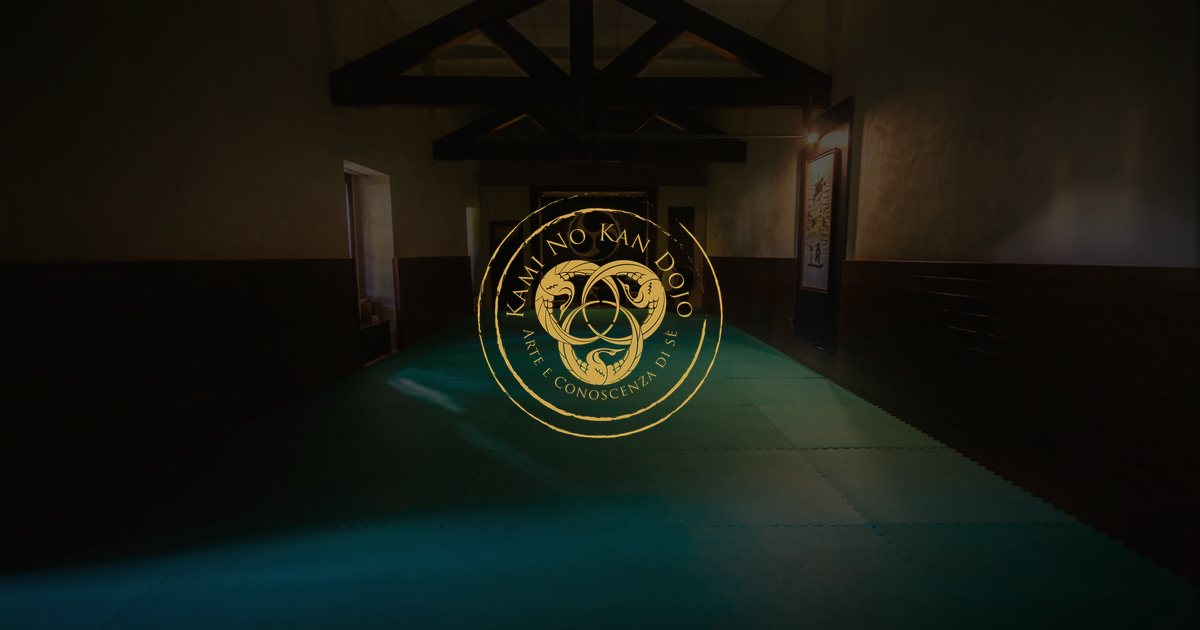
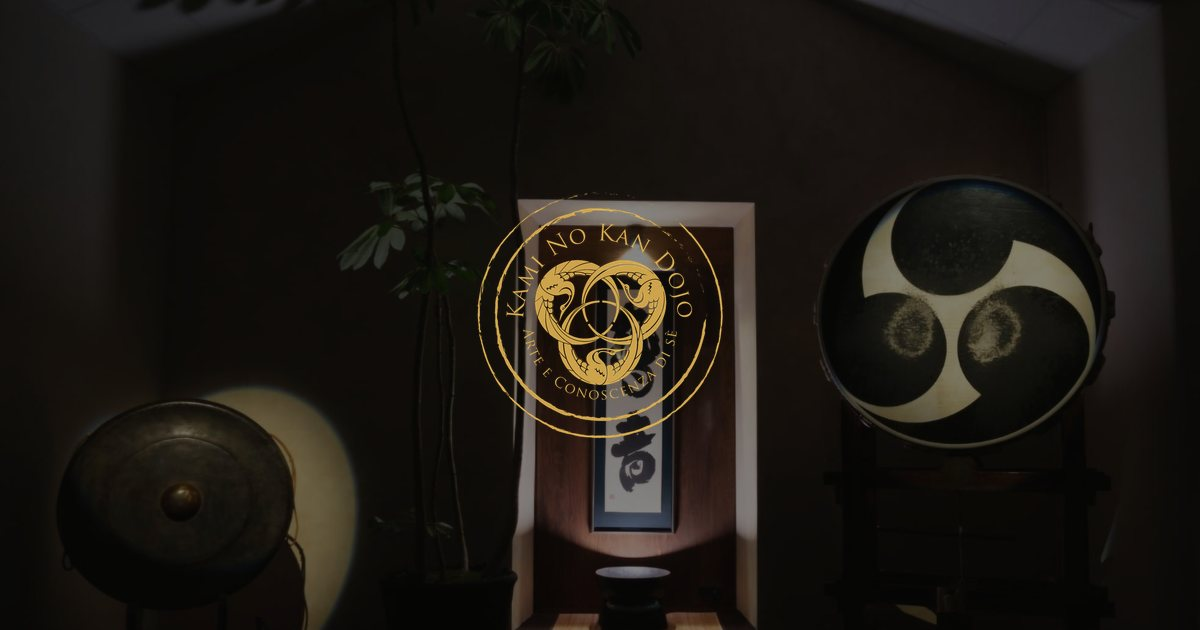
Nuove foto del Dojo ristrutturato e di SHINKA
Il portale della Home, la pagina Il Dojo, Taiko, Eventi e Contatti usano
le foto del dojo dopo la ristrutturazione e dell'evento del ventennale.
La galleria ha un nuovo filtro "Il Dojo". Rimosse le foto del vecchio dojo.

diff --git a/galleria.html b/galleria.html
@@ -73,14 +73,39 @@
       <div class="wrap">
         <div class="filters" role="group" aria-label="Filtra le foto per categoria">
           <button type="button" class="chip is-on" aria-pressed="true" data-filter="all">Tutte</button>
+          <button type="button" class="chip" aria-pressed="false" data-filter="d">Il Dojo</button>
           <button type="button" class="chip" aria-pressed="false" data-filter="a">Allenamenti</button>
           <button type="button" class="chip" aria-pressed="false" data-filter="s">Seminari</button>
           <button type="button" class="chip" aria-pressed="false" data-filter="e">Eventi</button>
         </div>
         <div class="masonry mt a">
+          <button type="button" class="shot" data-cat="d" aria-label="Ingrandisci la foto: Il grande tamburo e la calligrafia"><img src="assets/img/dojo-kamiza-sera.webp" alt="Il grande tamburo e la calligrafia" width="1964" height="1308" loading="lazy" decoding="async"><span>Il grande tamburo e la calligrafia</span></button>
+          <button type="button" class="shot" data-cat="e" aria-label="Ingrandisci la foto: SHINKA, dicembre 2025"><img src="assets/img/shinka-palco.webp" alt="SHINKA, dicembre 2025" width="2000" height="1233" loading="lazy" decoding="async"><span>SHINKA, dicembre 2025</span></button>
+          <button type="button" class="shot" data-cat="d" aria-label="Ingrandisci la foto: La soglia della sala"><img src="assets/img/dojo-soglia.webp" alt="La soglia della sala" width="1080" height="1822" loading="lazy" decoding="async"><span>La soglia della sala</span></button>
+          <button type="button" class="shot" data-cat="d" aria-label="Ingrandisci la foto: Il giardino di bambù"><img src="assets/img/giardino-bambu.webp" alt="Il giardino di bambù" width="1080" height="1511" loading="lazy" decoding="async"><span>Il giardino di bambù</span></button>
+          <button type="button" class="shot" data-cat="e" aria-label="Ingrandisci la foto: SHINKA, dicembre 2025"><img src="assets/img/shinka-samurai.webp" alt="SHINKA, dicembre 2025" width="1080" height="1679" loading="lazy" decoding="async"><span>SHINKA, dicembre 2025</span></button>
+          <button type="button" class="shot" data-cat="d" aria-label="Ingrandisci la foto: La sala di pratica, di sera"><img src="assets/img/dojo-sala-sera.webp" alt="La sala di pratica, di sera" width="1800" height="1682" loading="lazy" decoding="async"><span>La sala di pratica, di sera</span></button>
+          <button type="button" class="shot" data-cat="d" aria-label="Ingrandisci la foto: Bonsai e calligrafia"><img src="assets/img/dojo-bonsai.webp" alt="Bonsai e calligrafia" width="1080" height="1637" loading="lazy" decoding="async"><span>Bonsai e calligrafia</span></button>
+          <button type="button" class="shot" data-cat="e" aria-label="Ingrandisci la foto: SHINKA, dicembre 2025"><img src="assets/img/shinka-rosso.webp" alt="SHINKA, dicembre 2025" width="2000" height="1251" loading="lazy" decoding="async"><span>SHINKA, dicembre 2025</span></button>
+          <button type="button" class="shot" data-cat="d" aria-label="Ingrandisci la foto: Il giardino di pietra"><img src="assets/img/giardino-zen.webp" alt="Il giardino di pietra" width="1408" height="2000" loading="lazy" decoding="async"><span>Il giardino di pietra</span></button>
+          <button type="button" class="shot" data-cat="d" aria-label="Ingrandisci la foto: La sala di pratica"><img src="assets/img/dojo-sala.webp" alt="La sala di pratica" width="2000" height="1350" loading="lazy" decoding="async"><span>La sala di pratica</span></button>
+          <button type="button" class="shot" data-cat="d" aria-label="Ingrandisci la foto: L'ingresso"><img src="assets/img/dojo-ingresso.webp" alt="L'ingresso" width="2000" height="1289" loading="lazy" decoding="async"><span>L'ingresso</span></button>
+          <button type="button" class="shot" data-cat="e" aria-label="Ingrandisci la foto: SHINKA, dicembre 2025"><img src="assets/img/shinka-platea.webp" alt="SHINKA, dicembre 2025" width="2000" height="1064" loading="lazy" decoding="async"><span>SHINKA, dicembre 2025</span></button>
+          <button type="button" class="shot" data-cat="d" aria-label="Ingrandisci la foto: Il grande tamburo"><img src="assets/img/taiko-tomoe-nuovo.webp" alt="Il grande tamburo" width="2000" height="1331" loading="lazy" decoding="async"><span>Il grande tamburo</span></button>
+          <button type="button" class="shot" data-cat="d" aria-label="Ingrandisci la foto: La lanterna di pietra"><img src="assets/img/giardino-lanterna.webp" alt="La lanterna di pietra" width="1126" height="2000" loading="lazy" decoding="async"><span>La lanterna di pietra</span></button>
+          <button type="button" class="shot" data-cat="d" aria-label="Ingrandisci la foto: La scala in legno"><img src="assets/img/dojo-scala.webp" alt="La scala in legno" width="2000" height="1433" loading="lazy" decoding="async"><span>La scala in legno</span></button>
+          <button type="button" class="shot" data-cat="d" aria-label="Ingrandisci la foto: Il gong"><img src="assets/img/dojo-gong.webp" alt="Il gong" width="1080" height="1241" loading="lazy" decoding="async"><span>Il gong</span></button>
+          <button type="button" class="shot" data-cat="d" aria-label="Ingrandisci la foto: Il sentiero d'ingresso"><img src="assets/img/giardino-ingresso.webp" alt="Il sentiero d'ingresso" width="946" height="1156" loading="lazy" decoding="async"><span>Il sentiero d'ingresso</span></button>
+          <button type="button" class="shot" data-cat="d" aria-label="Ingrandisci la foto: La sala vista dal tatami"><img src="assets/img/dojo-sala-2.webp" alt="La sala vista dal tatami" width="1705" height="2000" loading="lazy" decoding="async"><span>La sala vista dal tatami</span></button>
+          <button type="button" class="shot" data-cat="d" aria-label="Ingrandisci la foto: Bonsai e grande tamburo"><img src="assets/img/dojo-bonsai-taiko.webp" alt="Bonsai e grande tamburo" width="1125" height="2000" loading="lazy" decoding="async"><span>Bonsai e grande tamburo</span></button>
+          <button type="button" class="shot" data-cat="d" aria-label="Ingrandisci la foto: Lanterna accesa"><img src="assets/img/giardino-lanterna-2.webp" alt="Lanterna accesa" width="1126" height="2000" loading="lazy" decoding="async"><span>Lanterna accesa</span></button>
+          <button type="button" class="shot" data-cat="d" aria-label="Ingrandisci la foto: Calligrafia"><img src="assets/img/dojo-targa.webp" alt="Calligrafia" width="1080" height="902" loading="lazy" decoding="async"><span>Calligrafia</span></button>
+          <button type="button" class="shot" data-cat="d" aria-label="Ingrandisci la foto: La sala vista di lato"><img src="assets/img/dojo-sala-3.webp" alt="La sala vista di lato" width="1876" height="2000" loading="lazy" decoding="async"><span>La sala vista di lato</span></button>
+          <button type="button" class="shot" data-cat="d" aria-label="Ingrandisci la foto: Il giardino di notte"><img src="assets/img/giardino-sentiero.webp" alt="Il giardino di notte" width="2000" height="1350" loading="lazy" decoding="async"><span>Il giardino di notte</span></button>
+          <button type="button" class="shot" data-cat="d" aria-label="Ingrandisci la foto: Gong, calligrafia e grande tamburo"><img src="assets/img/dojo-kamiza.webp" alt="Gong, calligrafia e grande tamburo" width="2000" height="1314" loading="lazy" decoding="async"><span>Gong, calligrafia e grande tamburo</span></button>
+          <button type="button" class="shot" data-cat="d" aria-label="Ingrandisci la foto: Il tamburo nella sala"><img src="assets/img/dojo-taiko-angolo.webp" alt="Il tamburo nella sala" width="1125" height="2000" loading="lazy" decoding="async"><span>Il tamburo nella sala</span></button>
           <button type="button" class="shot" data-cat="e" aria-label="Ingrandisci la foto: Matsuri"><img src="assets/img/matsuri-kimono.webp" alt="Matsuri" width="1600" height="1066" loading="lazy" decoding="async"><span>Matsuri</span></button>
           <button type="button" class="shot" data-cat="a" aria-label="Ingrandisci la foto: Kata al Matsuri"><img src="assets/img/karate-kata.webp" alt="Kata al Matsuri" width="1800" height="1200" loading="lazy" decoding="async"><span>Kata al Matsuri</span></button>
-          <button type="button" class="shot" data-cat="e" aria-label="Ingrandisci la foto: Odaiko"><img src="assets/img/odaiko.webp" alt="Odaiko" width="1345" height="1700" loading="lazy" decoding="async"><span>Odaiko</span></button>
           <button type="button" class="shot" data-cat="s" aria-label="Ingrandisci la foto: Viaggio di formazione"><img src="assets/img/seminari-1.webp" alt="Viaggio di formazione" width="1600" height="1200" loading="lazy" decoding="async"><span>Viaggio di formazione</span></button>
           <button type="button" class="shot" data-cat="a" aria-label="Ingrandisci la foto: Kata sulla spiaggia al tramonto"><img src="assets/img/kanku-dai.webp" alt="Kata sulla spiaggia al tramonto" width="1600" height="1200" loading="lazy" decoding="async"><span>Kata sulla spiaggia al tramonto</span></button>
           <button type="button" class="shot" data-cat="e" aria-label="Ingrandisci la foto: Shizen, 2018"><img src="assets/img/shizen-2.webp" alt="Shizen, 2018" width="1800" height="1200" loading="lazy" decoding="async"><span>Shizen, 2018</span></button>

diff --git a/index.html b/index.html
@@ -99,7 +99,7 @@
     </section>
     <section class="portal" data-pin="1">
       <div class="portal__pin">
-        <div class="portal__img"><img src="assets/img/dojo-tatami.webp" alt="L'interno del Dojo: il tatami, le capriate in legno e il grande tamburo sul fondo" width="1920" height="1231" loading="lazy" decoding="async"></div>
+        <div class="portal__img"><img src="assets/img/dojo-sala-sera.webp" alt="La sala del Dojo di sera: le capriate in legno illuminate e, sul fondo, il grande tamburo" width="1800" height="1682" loading="lazy" decoding="async"></div>
         <div class="portal__txt">
           <span class="ja" lang="ja">道場</span>
           <h2 class="h2">Un luogo fuori dall'ordinario</h2>
@@ -111,8 +111,8 @@
     <section class="sec">
       <div class="wrap split">
         <div class="collage">
-          <figure class="ph ph--px r45" data-rv="img"><img data-px="0.07" src="assets/img/calligrafia.webp" alt="La calligrafia «Kami No Kan Dōjō» appesa nel Dojo" width="849" height="1700" loading="lazy" decoding="async"></figure>
-          <figure class="ph ph--px ph--b r34 d1" data-rv="img"><img data-px="-0.05" src="assets/img/shoji.webp" alt="L'ingresso del Dojo con la porta shoji" width="1067" height="1600" loading="lazy" decoding="async"></figure>
+          <figure class="ph ph--px r45" data-rv="img"><img data-px="0.07" src="assets/img/dojo-soglia.webp" alt="La soglia in legno intagliato che introduce alla sala di pratica" width="1080" height="1822" loading="lazy" decoding="async"></figure>
+          <figure class="ph ph--px ph--b r34 d1" data-rv="img"><img data-px="-0.05" src="assets/img/dojo-bonsai.webp" alt="Un bonsai davanti alla calligrafia" width="1080" height="1637" loading="lazy" decoding="async"></figure>
         </div>
         <div class="stack">
           <p class="eyebrow" data-rv="up">La Scuola</p>
@@ -154,7 +154,7 @@
             </span>
           </a>
           <a class="via" href="taiko.html">
-            <img src="assets/img/taiko-tomoe.webp" alt="" width="1800" height="1430" loading="lazy" decoding="async">
+            <img src="assets/img/taiko-tomoe-nuovo.webp" alt="" width="2000" height="1331" loading="lazy" decoding="async">
             <span class="via__kanji" lang="ja" aria-hidden="true">太鼓</span>
             <span class="via__in">
               <span class="via__num">02</span>
@@ -231,7 +231,7 @@
       </div>
     </section>
     <section class="quote">
-      <div class="quote__bg"><img data-px="-0.12" src="assets/img/acero.webp" alt="" width="2000" height="876" loading="lazy" decoding="async"></div>
+      <div class="quote__bg"><img data-px="-0.12" src="assets/img/giardino-sentiero.webp" alt="" width="2000" height="1350" loading="lazy" decoding="async"></div>
       <div>
         <blockquote data-rv="up">Una scuola in cui l'Arte è vissuta come mezzo di massima espressione di Sé, di ricerca di bellezza e perfezione, di consapevolezza dell'unità con se stessi e gli altri.</blockquote>
         <div class="quote__by d1" data-rv="up">
@@ -251,7 +251,7 @@
         </div>
         <div class="ev-home">
           <a class="card" href="eventi.html" data-rv="up">
-            <img src="assets/img/taiko-dettaglio.webp" alt="" width="1800" height="1009" loading="lazy" decoding="async">
+            <img src="assets/img/shinka-palco.webp" alt="" width="2000" height="1233" loading="lazy" decoding="async">
             <span class="card__date">Dicembre 2025</span>
             <span class="card__t">SHINKA — I 20 anni della nostra Scuola</span>
             <span class="card__d">Spettacolo di Tamburi Giapponesi Taiko con gli artisti del Kyo Shin Do di Genova e gli allievi della scuola.</span>
@@ -284,30 +284,30 @@
       <div class="reel" data-rv="fade">
         <div class="reel__track">
           <div class="reel__set">
-            <img src="assets/img/matsuri-kimono.webp" alt="Kimono e ombrello al Matsuri" width="1600" height="1066" loading="lazy" decoding="async">
+            <img src="assets/img/shinka-rosso.webp" alt="SHINKA: il palco in luce rossa davanti agli allievi schierati" width="2000" height="1251" loading="lazy" decoding="async">
             <img src="assets/img/bunkai.webp" alt="Applicazione di una tecnica di Karate" width="1500" height="1284" loading="lazy" decoding="async">
-            <img src="assets/img/odaiko.webp" alt="Il grande tamburo Odaiko" width="1345" height="1700" loading="lazy" decoding="async">
+            <img src="assets/img/dojo-kamiza.webp" alt="Il gong, la calligrafia e il grande tamburo con il mitsudomoe" width="2000" height="1314" loading="lazy" decoding="async">
             <img src="assets/img/kanku-dai.webp" alt="Kata sulla spiaggia al tramonto" width="1600" height="1200" loading="lazy" decoding="async">
             <img src="assets/img/matsuri-taiko.webp" alt="Taiko al Matsuri" width="1600" height="1074" loading="lazy" decoding="async">
-            <img src="assets/img/bambu.webp" alt="Il giardino di bambù del Dojo" width="1600" height="1060" loading="lazy" decoding="async">
+            <img src="assets/img/giardino-bambu.webp" alt="Bambù e lanterna accesa nel giardino" width="1080" height="1511" loading="lazy" decoding="async">
             <img src="assets/img/karate-kumite.webp" alt="Kumite al Matsuri" width="1066" height="1600" loading="lazy" decoding="async">
-            <img src="assets/img/seminari-2.webp" alt="Il gruppo durante un seminario" width="1600" height="1200" loading="lazy" decoding="async">
+            <img src="assets/img/shinka-samurai.webp" alt="SHINKA: un samurai in armatura davanti al grande tamburo" width="1080" height="1679" loading="lazy" decoding="async">
           </div>
           <div class="reel__set" aria-hidden="true">
-            <img src="assets/img/matsuri-kimono.webp" alt="" width="1600" height="1066" loading="lazy" decoding="async">
+            <img src="assets/img/shinka-rosso.webp" alt="" width="2000" height="1251" loading="lazy" decoding="async">
             <img src="assets/img/bunkai.webp" alt="" width="1500" height="1284" loading="lazy" decoding="async">
-            <img src="assets/img/odaiko.webp" alt="" width="1345" height="1700" loading="lazy" decoding="async">
+            <img src="assets/img/dojo-kamiza.webp" alt="" width="2000" height="1314" loading="lazy" decoding="async">
             <img src="assets/img/kanku-dai.webp" alt="" width="1600" height="1200" loading="lazy" decoding="async">
             <img src="assets/img/matsuri-taiko.webp" alt="" width="1600" height="1074" loading="lazy" decoding="async">
-            <img src="assets/img/bambu.webp" alt="" width="1600" height="1060" loading="lazy" decoding="async">
+            <img src="assets/img/giardino-bambu.webp" alt="" width="1080" height="1511" loading="lazy" decoding="async">
             <img src="assets/img/karate-kumite.webp" alt="" width="1066" height="1600" loading="lazy" decoding="async">
-            <img src="assets/img/seminari-2.webp" alt="" width="1600" height="1200" loading="lazy" decoding="async">
+            <img src="assets/img/shinka-samurai.webp" alt="" width="1080" height="1679" loading="lazy" decoding="async">
           </div>
         </div>
       </div>
     </section>
     <section class="cta">
-      <div class="cta__bg"><img data-px="-0.1" src="assets/img/vetro.webp" alt="" width="1600" height="1060" loading="lazy" decoding="async"></div>
+      <div class="cta__bg"><img data-px="-0.1" src="assets/img/giardino-zen-largo.webp" alt="" width="2000" height="1350" loading="lazy" decoding="async"></div>
       <div class="wrap cta__in">
         <p class="eyebrow eyebrow--c" data-rv="up">Contatti</p>
         <h2 class="display" data-rv="rise"><span class="line"><span>Il Dojo ti aspetta</span></span></h2>

diff --git a/taiko.html b/taiko.html
@@ -60,7 +60,7 @@
   <main id="contenuto">
 
     <section class="phero onload">
-      <div class="phero__media"><img data-px="-0.2" src="assets/img/shizen-1.webp" alt="" width="1920" height="1280" fetchpriority="high"></div>
+      <div class="phero__media"><img data-px="-0.2" src="assets/img/shinka-rosso.webp" alt="" width="2000" height="1251" fetchpriority="high"></div>
       <div class="beat" aria-hidden="true"><i></i><i></i><i></i><i></i></div>
       <span class="phero__kanji" lang="ja" aria-hidden="true">太鼓道</span>
       <div class="wrap">
@@ -79,7 +79,7 @@
           <p class="txt" data-rv="up">In Giappone il Taiko si è sviluppato in simbiosi con la tradizione e la cultura tipica del Sol Levante.</p>
           <p class="txt" data-rv="up">Nell'ultimo secolo, grazie all'opera di alcuni gruppi di artisti, il Taiko si è trasformato in Arte Performativa e Visuale in grado di veicolare ed esprimere le potenzialità dell'Essere Umano.</p>
         </div>
-        <figure class="ph ph--px r34" data-rv="img"><img data-px="0.06" src="assets/img/odaiko.webp" alt="Il grande tamburo Odaiko con il simbolo del mitsudomoe" width="1345" height="1700" loading="lazy" decoding="async"></figure>
+        <figure class="ph ph--px r34" data-rv="img"><img data-px="0.06" src="assets/img/dojo-taiko-angolo.webp" alt="Il grande tamburo con il mitsudomoe nella sala del Dojo" width="1125" height="2000" loading="lazy" decoding="async"></figure>
       </div>
       <div class="wrap">
         <p class="lead mt" data-rv="up">Si dice che il suono del Taiko venisse utilizzato per:</p>
@@ -116,7 +116,7 @@
         <div class="grid3 mt">
           <figure class="ph r43" data-rv="img"><img src="assets/img/lezione-taiko.webp" alt="Una lezione di Taiko nel Dojo" width="1600" height="1066" loading="lazy" decoding="async"></figure>
           <figure class="ph r43 d1" data-rv="img"><img src="assets/img/nagado.webp" alt="Un tamburo nagadō visto da vicino" width="1800" height="1205" loading="lazy" decoding="async"></figure>
-          <figure class="ph r43 d2" data-rv="img"><img src="assets/img/taiko-tomoe.webp" alt="La pelle di un tamburo con il mitsudomoe" width="1800" height="1430" loading="lazy" decoding="async"></figure>
+          <figure class="ph r43 d2" data-rv="img"><img src="assets/img/taiko-tomoe-nuovo.webp" alt="Il grande tamburo con il mitsudomoe" width="2000" height="1331" loading="lazy" decoding="async"></figure>
         </div>
       </div>
     </section>
@@ -134,23 +134,23 @@
       <div class="reel" data-rv="fade">
         <div class="reel__track">
           <div class="reel__set">
-            <img src="assets/img/shizen-2.webp" alt="Shizen, 2018: flauto e grande tamburo in scena" width="1800" height="1200" loading="lazy" decoding="async">
-            <img src="assets/img/shizen-4.webp" alt="Shizen, 2018: il gruppo ai tamburi" width="1800" height="1200" loading="lazy" decoding="async">
+            <img src="assets/img/shinka-palco.webp" alt="SHINKA: i tamburi sul palco del ventennale" width="2000" height="1233" loading="lazy" decoding="async">
+            <img src="assets/img/shinka-samurai.webp" alt="SHINKA: un samurai in armatura davanti al grande tamburo" width="1080" height="1679" loading="lazy" decoding="async">
             <img src="assets/img/kaiser-drums.webp" alt="Taiko Kaiser Drums, Düsseldorf 2018" width="1600" height="960" loading="lazy" decoding="async">
             <img src="assets/img/vinarte-1.webp" alt="Esibizione a VinArte, Salerno 2017" width="1600" height="1066" loading="lazy" decoding="async">
             <img src="assets/img/shizen-3.webp" alt="Shizen, 2018: il gruppo in scena" width="1800" height="1200" loading="lazy" decoding="async">
             <img src="assets/img/dusseldorf.webp" alt="Un momento del concerto di Düsseldorf" width="887" height="633" loading="lazy" decoding="async">
-            <img src="assets/img/matsuri-taiko.webp" alt="Taiko al Matsuri" width="1600" height="1074" loading="lazy" decoding="async">
+            <img src="assets/img/shinka-platea.webp" alt="SHINKA: gli allievi schierati davanti al palco" width="2000" height="1064" loading="lazy" decoding="async">
             <img src="assets/img/vinarte-2.webp" alt="Il gruppo a VinArte, Salerno 2017" width="1600" height="1066" loading="lazy" decoding="async">
           </div>
           <div class="reel__set" aria-hidden="true">
-            <img src="assets/img/shizen-2.webp" alt="" width="1800" height="1200" loading="lazy" decoding="async">
-            <img src="assets/img/shizen-4.webp" alt="" width="1800" height="1200" loading="lazy" decoding="async">
+            <img src="assets/img/shinka-palco.webp" alt="" width="2000" height="1233" loading="lazy" decoding="async">
+            <img src="assets/img/shinka-samurai.webp" alt="" width="1080" height="1679" loading="lazy" decoding="async">
             <img src="assets/img/kaiser-drums.webp" alt="" width="1600" height="960" loading="lazy" decoding="async">
             <img src="assets/img/vinarte-1.webp" alt="" width="1600" height="1066" loading="lazy" decoding="async">
             <img src="assets/img/shizen-3.webp" alt="" width="1800" height="1200" loading="lazy" decoding="async">
             <img src="assets/img/dusseldorf.webp" alt="" width="887" height="633" loading="lazy" decoding="async">
-            <img src="assets/img/matsuri-taiko.webp" alt="" width="1600" height="1074" loading="lazy" decoding="async">
+            <img src="assets/img/shinka-platea.webp" alt="" width="2000" height="1064" loading="lazy" decoding="async">
             <img src="assets/img/vinarte-2.webp" alt="" width="1600" height="1066" loading="lazy" decoding="async">
           </div>
         </div>

diff --git a/il-dojo.html b/il-dojo.html
@@ -60,7 +60,7 @@
   <main id="contenuto">
 
     <section class="phero onload">
-      <div class="phero__media"><img data-px="-0.2" src="assets/img/dojo-notte.webp" alt="" width="1490" height="992" fetchpriority="high"></div>
+      <div class="phero__media"><img data-px="-0.2" src="assets/img/dojo-kamiza-sera.webp" alt="" width="1964" height="1308" fetchpriority="high"></div>
       <span class="phero__kanji" lang="ja" aria-hidden="true">道場</span>
       <div class="wrap">
         <p class="crumb fadeup"><a href="./">Home</a><span>/ Il Dojo</span></p>
@@ -92,15 +92,18 @@
             <p class="eyebrow" data-rv="up">Gli spazi</p>
             <h2 class="h2" data-rv="rise"><span class="line"><span>Armonia e bellezza</span></span></h2>
           </div>
-          <p class="txt" data-rv="up">Il tatami e le capriate in legno, la soglia con la porta shoji, il giardino di bambù e aceri.</p>
+          <p class="txt" data-rv="up">Il tatami e le capriate in legno, la soglia intagliata, il giardino di pietra, bambù e lanterne.</p>
         </div>
         <div class="mosaic">
-          <figure class="ph r169 m8" data-rv="img"><img src="assets/img/dojo-tatami.webp" alt="La sala di pratica con il tatami e il grande tamburo sul fondo" width="1920" height="1231" loading="lazy" decoding="async"></figure>
-          <figure class="ph fill m4 d1" data-rv="img"><img src="assets/img/shoji.webp" alt="L'ingresso con la porta shoji e i sandali sulla soglia" width="1067" height="1600" loading="lazy" decoding="async"></figure>
-          <figure class="ph fill m4" data-rv="img"><img src="assets/img/giardino.webp" alt="Il giardino del Dojo illuminato di notte" width="971" height="742" loading="lazy" decoding="async"></figure>
-          <figure class="ph r169 m8" data-rv="img"><img src="assets/img/interno.webp" alt="Un angolo interno del Dojo con la statua del Buddha" width="1600" height="949" loading="lazy" decoding="async"></figure>
-          <figure class="ph r32 m6" data-rv="img"><img src="assets/img/lanterna.webp" alt="La lanterna di legno in giardino" width="1070" height="737" loading="lazy" decoding="async"></figure>
-          <figure class="ph r32 m6" data-rv="img"><img src="assets/img/bambu.webp" alt="Il boschetto di bambù con la lanterna" width="1600" height="1060" loading="lazy" decoding="async"></figure>
+          <figure class="ph r169 m8" data-rv="img"><img src="assets/img/dojo-sala.webp" alt="La sala di pratica: tatami e capriate in legno" width="2000" height="1350" loading="lazy" decoding="async"></figure>
+          <figure class="ph fill m4 d1" data-rv="img"><img src="assets/img/dojo-soglia.webp" alt="La soglia in legno intagliato che introduce alla sala di pratica" width="1080" height="1822" loading="lazy" decoding="async"></figure>
+          <figure class="ph fill m4" data-rv="img"><img src="assets/img/dojo-bonsai-taiko.webp" alt="Bonsai, calligrafia e grande tamburo" width="1125" height="2000" loading="lazy" decoding="async"></figure>
+          <figure class="ph r169 m8" data-rv="img"><img src="assets/img/dojo-kamiza.webp" alt="Il gong, la calligrafia e il grande tamburo con il mitsudomoe" width="2000" height="1314" loading="lazy" decoding="async"></figure>
+          <figure class="ph r32 m6" data-rv="img"><img src="assets/img/dojo-ingresso.webp" alt="L'ingresso del Dojo con la scala in legno e la vista sulla sala" width="2000" height="1289" loading="lazy" decoding="async"></figure>
+          <figure class="ph r32 m6" data-rv="img"><img src="assets/img/dojo-scala.webp" alt="La scala in legno con una statua tra le ombre delle foglie" width="2000" height="1433" loading="lazy" decoding="async"></figure>
+          <figure class="ph r34 m4" data-rv="img"><img src="assets/img/giardino-lanterna.webp" alt="Lanterna di pietra nel giardino, di notte" width="1126" height="2000" loading="lazy" decoding="async"></figure>
+          <figure class="ph r34 m4 d1" data-rv="img"><img src="assets/img/giardino-zen.webp" alt="Il giardino di pietra con la lanterna accesa" width="1408" height="2000" loading="lazy" decoding="async"></figure>
+          <figure class="ph r34 m4 d2" data-rv="img"><img src="assets/img/giardino-bambu.webp" alt="Bambù e lanterna accesa nel giardino" width="1080" height="1511" loading="lazy" decoding="async"></figure>
         </div>
       </div>
     </section>
@@ -153,7 +156,7 @@
     </section>
 
     <section class="cta">
-      <div class="cta__bg"><img data-px="-0.1" src="assets/img/acero.webp" alt="" width="2000" height="876" loading="lazy" decoding="async"></div>
+      <div class="cta__bg"><img data-px="-0.1" src="assets/img/giardino-sentiero.webp" alt="" width="2000" height="1350" loading="lazy" decoding="async"></div>
       <div class="wrap cta__in">
         <p class="eyebrow eyebrow--c" data-rv="up">Contatti</p>
         <h2 class="display" data-rv="rise"><span class="line"><span>Vieni a conoscerci</span></span></h2>

diff --git a/eventi.html b/eventi.html
@@ -60,7 +60,7 @@
   <main id="contenuto">
 
     <section class="phero onload">
-      <div class="phero__media"><img data-px="-0.2" src="assets/img/shizen-3.webp" alt="" width="1800" height="1200" fetchpriority="high"></div>
+      <div class="phero__media"><img data-px="-0.2" src="assets/img/shinka-platea.webp" alt="" width="2000" height="1064" fetchpriority="high"></div>
       <span class="phero__kanji" lang="ja" aria-hidden="true">祭</span>
       <div class="wrap">
         <p class="crumb fadeup"><a href="./">Home</a><span>/ Eventi</span></p>
@@ -72,11 +72,15 @@
     <section class="sec sec--tight">
       <div class="wrap">
         <article class="card card--xl" data-rv="up">
-          <img src="assets/img/taiko-dettaglio.webp" alt="" width="1800" height="1009" loading="lazy" decoding="async">
+          <img src="assets/img/shinka-palco.webp" alt="" width="2000" height="1233" loading="lazy" decoding="async">
           <span class="card__date">Dicembre 2025 · Ultimo evento</span>
           <h2 class="card__t">SHINKA — I 20 anni della nostra Scuola</h2>
           <p class="card__d">Spettacolo di Tamburi Giapponesi Taiko con gli artisti del Kyo Shin Do di Genova e gli allievi della scuola.</p>
         </article>
+        <div class="mosaic" style="margin-top:16px">
+          <figure class="ph r32 m8" data-rv="img"><img src="assets/img/shinka-rosso.webp" alt="SHINKA: il palco in luce rossa davanti agli allievi schierati" width="2000" height="1251" loading="lazy" decoding="async"></figure>
+          <figure class="ph fill m4 d1" data-rv="img"><img src="assets/img/shinka-samurai.webp" alt="SHINKA: un samurai in armatura davanti al grande tamburo" width="1080" height="1679" loading="lazy" decoding="async"></figure>
+        </div>
       </div>
     </section>
 

diff --git a/discipline-olistiche.html b/discipline-olistiche.html
@@ -78,7 +78,7 @@
           <p class="txt" data-rv="up">Nato e sviluppatosi in Giappone nel secolo scorso per opera del Maestro Haruchika Noguchi, il Katsugen undo è stato diffuso in Europa dal Maestro Itsuo Tsuda, il quale ha posto questa pratica al centro della sua filosofia di «Scoperta dello Spirito del Cuore di Cielo Puro» (Tenshin); questo spirito non è il prodotto di ricerche intellettuali, ma esiste all'origine in ogni uomo.</p>
           <p class="txt" data-rv="up">Per permettere la scoperta e l'approfondimento di questa pratica, nel nostro Dojo vengono organizzate regolarmente sedute di Katsugen undo.</p>
         </div>
-        <figure class="ph ph--px r43" data-rv="img"><img data-px="0.05" src="assets/img/te.webp" alt="Mani che porgono una tazza sul tatami" width="1000" height="664" loading="lazy" decoding="async"></figure>
+        <figure class="ph ph--px r43" data-rv="img"><img data-px="0.05" src="assets/img/dojo-gong.webp" alt="Il gong del Dojo" width="1080" height="1241" loading="lazy" decoding="async"></figure>
       </div>
       <div class="wrap">
         <div class="trio mt">

diff --git a/contatti.html b/contatti.html
@@ -60,7 +60,7 @@
   <main id="contenuto">
 
     <section class="phero phero--sm onload">
-      <div class="phero__media"><img data-px="-0.2" src="assets/img/giardino.webp" alt="" width="971" height="742" fetchpriority="high"></div>
+      <div class="phero__media"><img data-px="-0.2" src="assets/img/giardino-sentiero.webp" alt="" width="2000" height="1350" fetchpriority="high"></div>
       <span class="phero__kanji" lang="ja" aria-hidden="true">連絡</span>
       <div class="wrap">
         <p class="crumb fadeup"><a href="./">Home</a><span>/ Contatti</span></p>

diff --git a/css/site.css b/css/site.css
@@ -515,6 +515,9 @@ html.no-scroll{overflow:hidden}
 .skip{position:absolute;left:16px;top:-80px;z-index:100;padding:14px 18px;background:#cda44c;color:#0d0c0a;font:700 14px/1 system-ui,sans-serif;text-decoration:none;transition:top .2s}
 .skip:focus{top:16px}
 
+/* il portale occupa tutta l'altezza dello schermo, anche sui monitor grandi */
+.portal__pin{height:100vh;height:100svh}
+
 .shot[hidden],.form__ok[hidden]{display:none}
 .lightbox img:not([src]){visibility:hidden}
 
